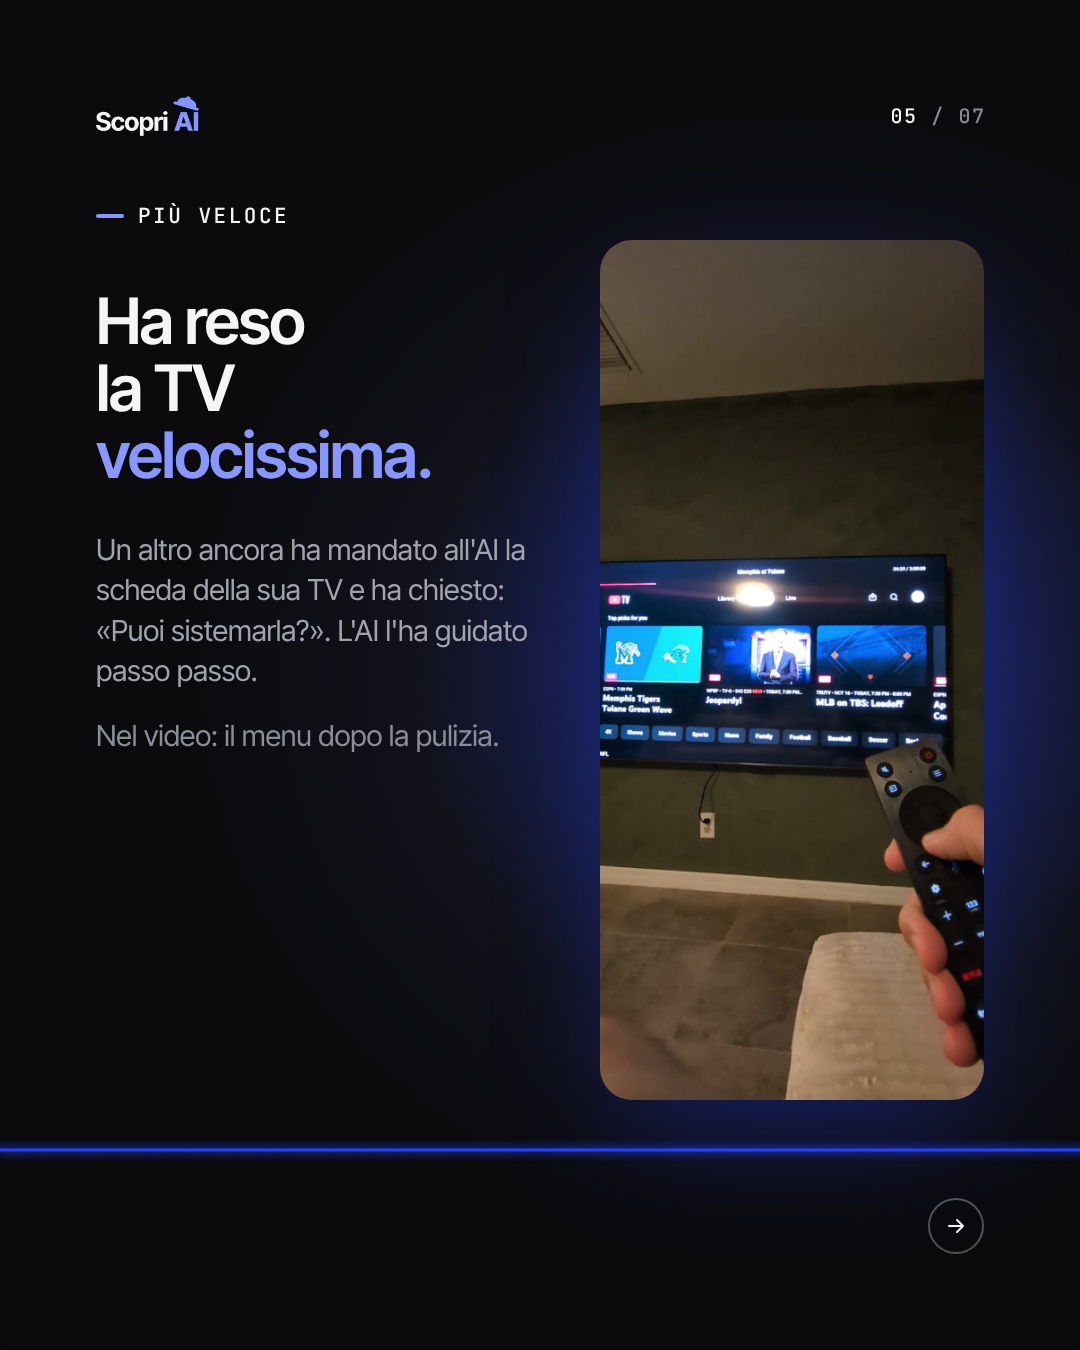
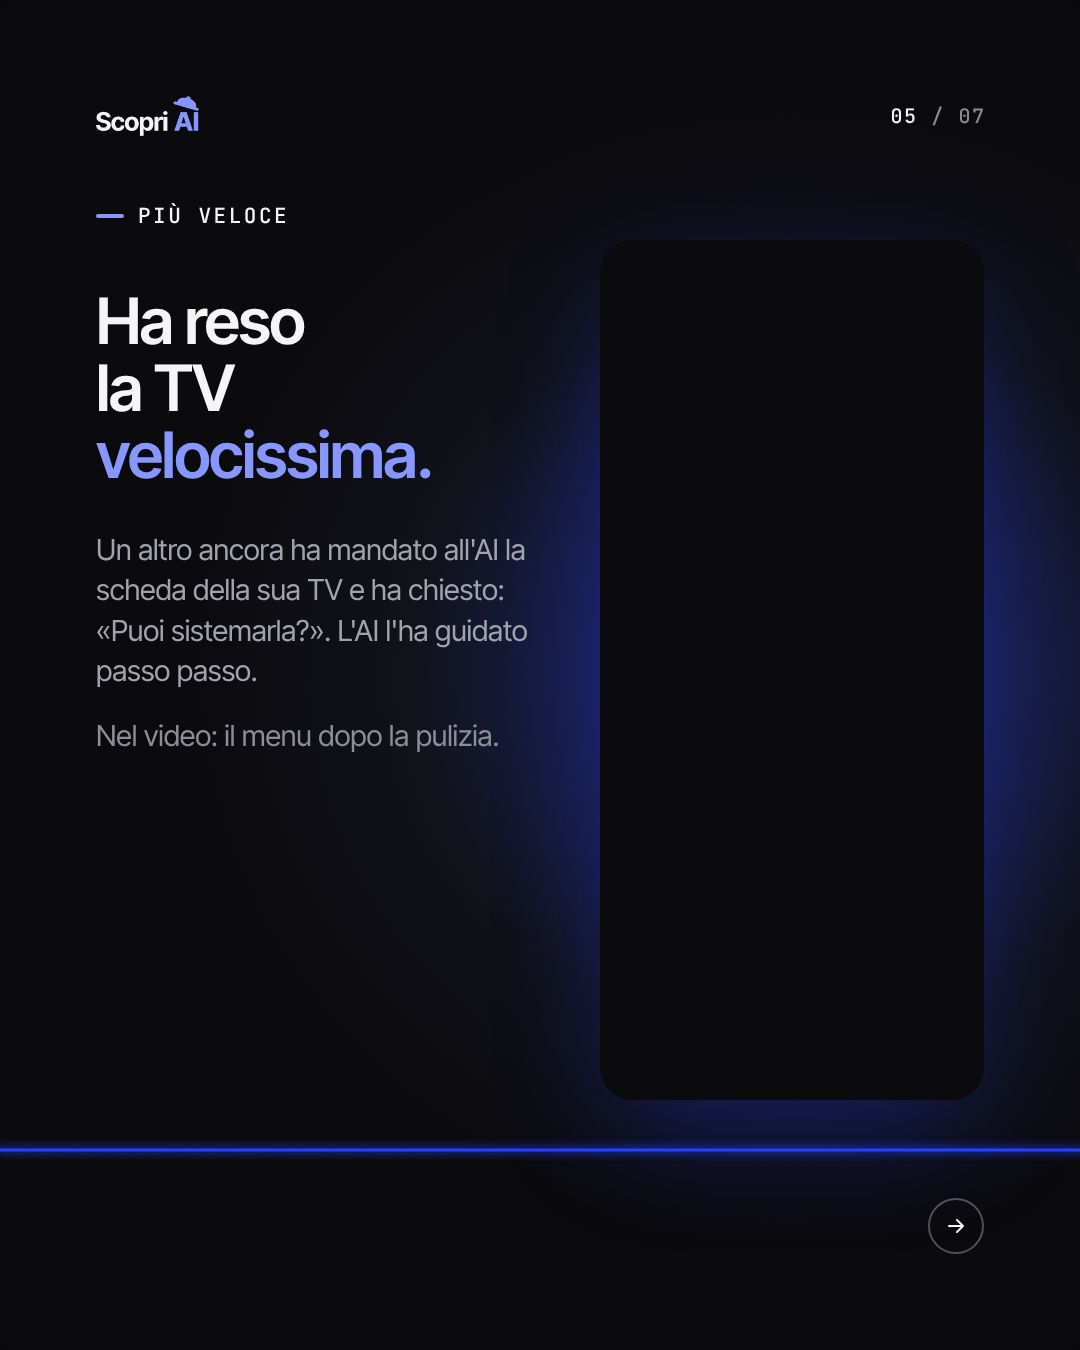
Copertina: freccina centrata (in corso)
Claude-Session: https://claude.ai/code/session_01XwbamHMD22pS1qReAsKQQF

Changed region(s): [[0.55, 0.1556, 0.9167, 0.84]]

diff --git a/.claude/skills/scopri-carousel/assets/template/engine/carousel.js b/.claude/skills/scopri-carousel/assets/template/engine/carousel.js
@@ -61,7 +61,8 @@
         `<svg class="layer grain" viewBox="0 0 1080 1350"><rect width="1080" height="1350" filter="url(#grain)"/></svg>` +
         (last ? '' : `<img class="f-logo" src="${C.logos[mode]}" alt="Scopri AI">`) +
         (last ? '' : `<div class="f-count"><b>${pad(n)}</b> / ${pad(N - 1)}</div>`) +
-        (last ? '' : `<div class="f-cue${cover ? ' filled' : ''}">${ARROW}</div>`) +
+        // the cover has no filled arrow: its swipe invite «SCORRI PER SCOPRIRE →» replaces it (owner, 20 Oct 2026)
+        (last || (cover && C.swipe !== false) ? '' : `<div class="f-cue${cover ? ' filled' : ''}">${ARROW}</div>`) +
         // cover only: swipe invite centred at the bottom, right above Instagram's dots; no dots drawn (owner, 20 Oct 2026)
         (cover && C.swipe !== false ? `<div class="f-swipe"><span>${C.swipe || 'Scorri per scoprire'}</span>${SWIPE_ARROW}</div>` : ''));
       sl.querySelectorAll('[data-logo]').forEach(el => { el.innerHTML = `<img src="${C.logos[mode]}" alt="Scopri AI">`; });

diff --git a/carousels/2026-10-20-news-smart-tv-ai/engine/carousel.js b/carousels/2026-10-20-news-smart-tv-ai/engine/carousel.js
@@ -61,7 +61,8 @@
         `<svg class="layer grain" viewBox="0 0 1080 1350"><rect width="1080" height="1350" filter="url(#grain)"/></svg>` +
         (last ? '' : `<img class="f-logo" src="${C.logos[mode]}" alt="Scopri AI">`) +
         (last ? '' : `<div class="f-count"><b>${pad(n)}</b> / ${pad(N - 1)}</div>`) +
-        (last ? '' : `<div class="f-cue${cover ? ' filled' : ''}">${ARROW}</div>`) +
+        // the cover has no filled arrow: its swipe invite «SCORRI PER SCOPRIRE →» replaces it (owner, 20 Oct 2026)
+        (last || (cover && C.swipe !== false) ? '' : `<div class="f-cue${cover ? ' filled' : ''}">${ARROW}</div>`) +
         // cover only: swipe invite centred at the bottom, right above Instagram's dots; no dots drawn (owner, 20 Oct 2026)
         (cover && C.swipe !== false ? `<div class="f-swipe"><span>${C.swipe || 'Scorri per scoprire'}</span>${SWIPE_ARROW}</div>` : ''));
       sl.querySelectorAll('[data-logo]').forEach(el => { el.innerHTML = `<img src="${C.logos[mode]}" alt="Scopri AI">`; });

diff --git a/.claude/skills/scopri-carousel/assets/template/engine/carousel.css b/.claude/skills/scopri-carousel/assets/template/engine/carousel.css
@@ -100,8 +100,6 @@ body.video *{animation-play-state:paused!important}           /* frames are seek
   font:600 25px/30px var(--font-primary);letter-spacing:.12em;text-transform:uppercase;color:var(--tp);text-shadow:0 0 14px rgba(0,0,0,.55),0 1px 3px rgba(0,0,0,.45)}
 .f-swipe span{margin-right:-.12em}
 .f-swipe svg{width:34px;height:16px;flex:none;fill:none;stroke:var(--accent-300);stroke-width:2.4;stroke-linecap:round;stroke-linejoin:round;filter:drop-shadow(0 0 6px rgba(var(--accent-rgb),.6))}
-/* on the cover the filled arrow drops onto the invite line (centre y 1273), so the two read as one row; the dots are centred, the arrow is at the right */
-.slide:has(.f-swipe) .f-cue{top:1245px}
 .mode-light .f-swipe{text-shadow:none}.mode-light .f-swipe svg{stroke:var(--accent-500);filter:none}.mode-accent .f-swipe svg{stroke:#fff}
 .mode-accent .f-cue.filled svg{stroke:var(--accent-700)}
 

diff --git a/carousels/2026-10-20-news-smart-tv-ai/engine/carousel.css b/carousels/2026-10-20-news-smart-tv-ai/engine/carousel.css
@@ -100,8 +100,6 @@ body.video *{animation-play-state:paused!important}           /* frames are seek
   font:600 25px/30px var(--font-primary);letter-spacing:.12em;text-transform:uppercase;color:var(--tp);text-shadow:0 0 14px rgba(0,0,0,.55),0 1px 3px rgba(0,0,0,.45)}
 .f-swipe span{margin-right:-.12em}
 .f-swipe svg{width:34px;height:16px;flex:none;fill:none;stroke:var(--accent-300);stroke-width:2.4;stroke-linecap:round;stroke-linejoin:round;filter:drop-shadow(0 0 6px rgba(var(--accent-rgb),.6))}
-/* on the cover the filled arrow drops onto the invite line (centre y 1273), so the two read as one row; the dots are centred, the arrow is at the right */
-.slide:has(.f-swipe) .f-cue{top:1245px}
 .mode-light .f-swipe{text-shadow:none}.mode-light .f-swipe svg{stroke:var(--accent-500);filter:none}.mode-accent .f-swipe svg{stroke:#fff}
 .mode-accent .f-cue.filled svg{stroke:var(--accent-700)}
 
